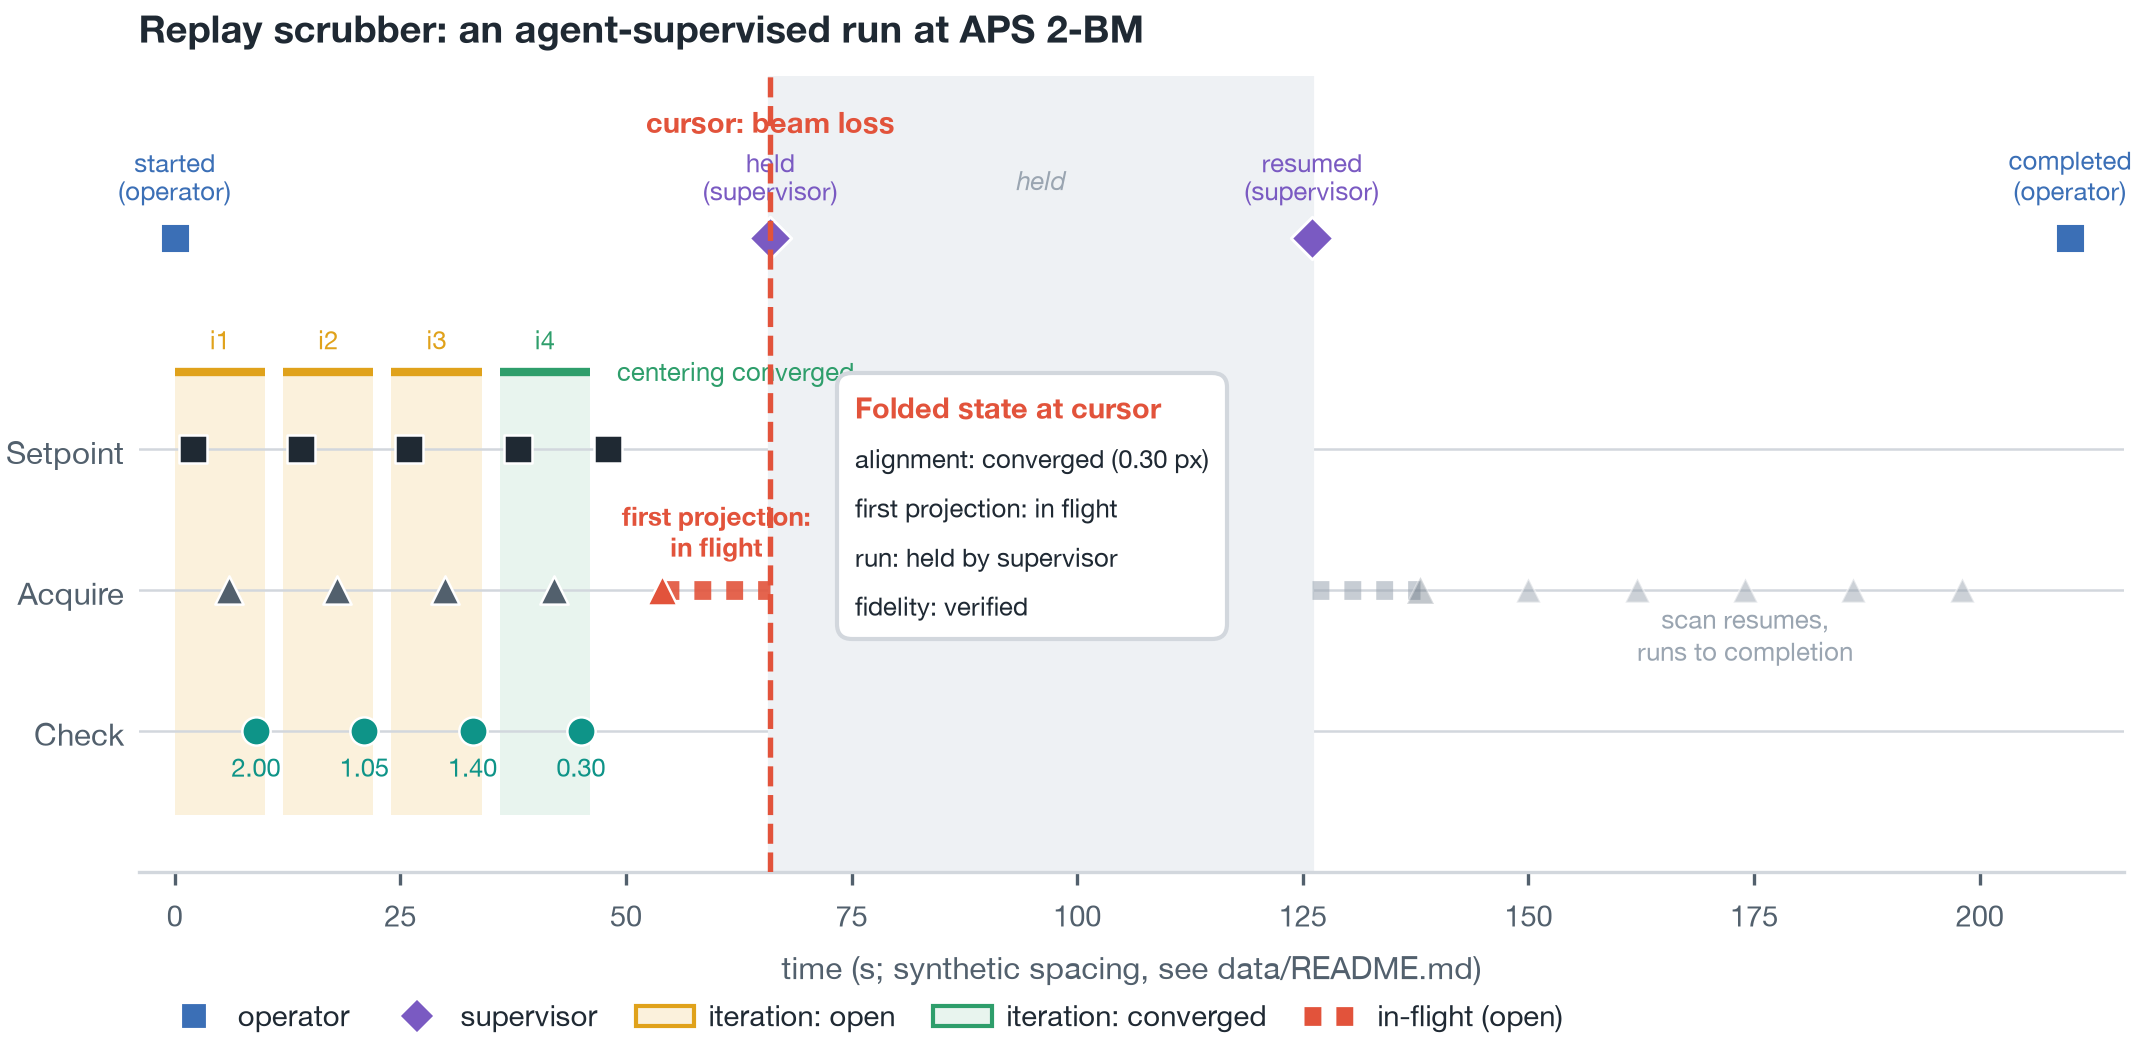
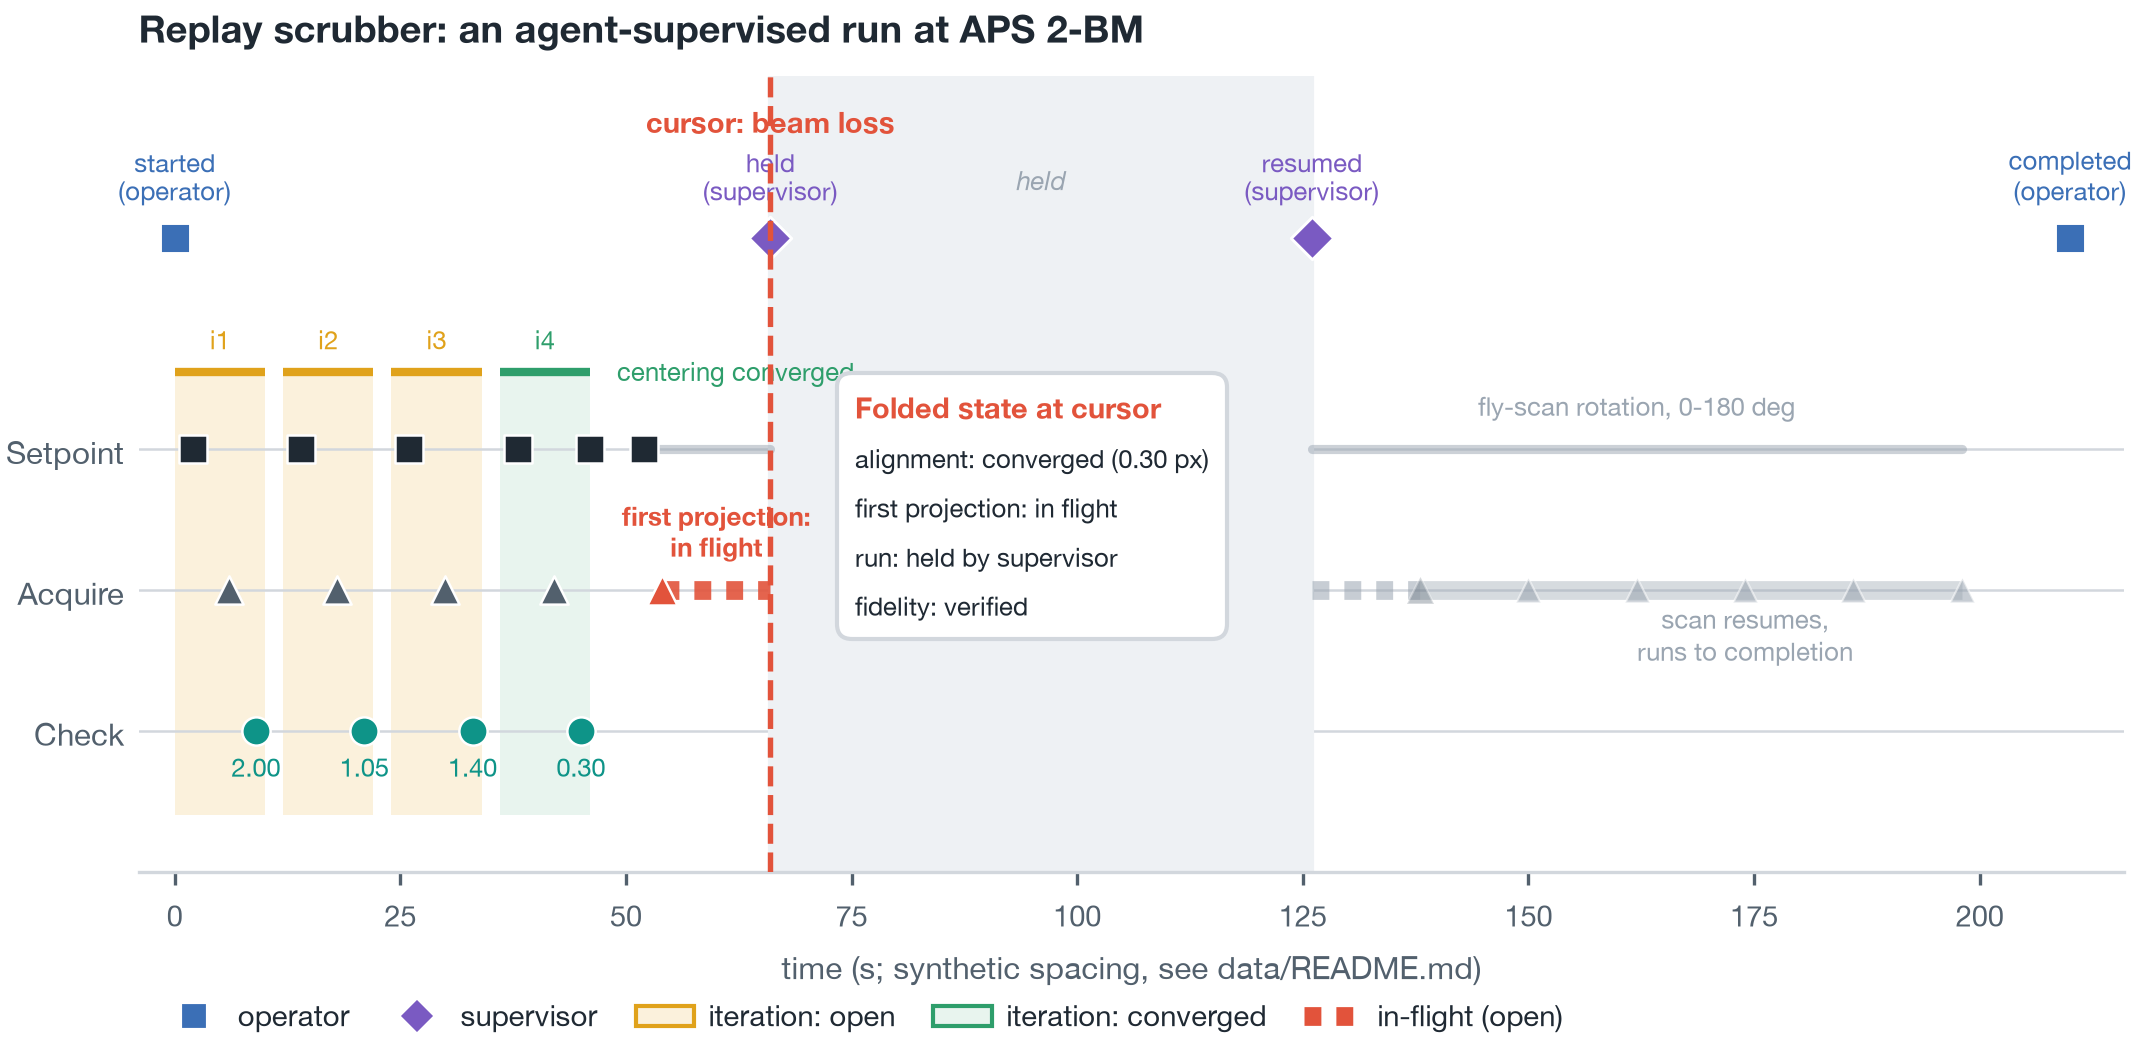
docs(papers): make the science scan a faithful fly-scan (rotation + continuous acquisition)
Looking closely, the scan phase had no rotation and the projections sat
unconnected, so it did not read as a tomography acquisition. 2-BM does
fly-scans (continuous rotation, PSO-triggered frames), so:

- the scenario now records the fly-scan rotation as a real setpoint
  (rotation_angle, role fly_scan, 0->180 deg) before the first projection; a
  new assertion locks it. The test still passes.
- F1 shows the rotary stage moving: a faint continuous span on the setpoint
  lane, paused during the hold, labelled "fly-scan rotation, 0-180 deg".
- the projections are now joined by a continuous closed acquisition line that
  picks up where the interrupted first frame closes. The dashed style stays
  reserved for the open (no-outcome) first frame; once frames close the line
  continues solid.

No per-projection checks: those were the alignment's center-of-rotation
convergence tests, not part of a science scan. Data README and the F1 caption
follow. Builds clean; body still within 6 pages excluding references.

Changed region(s): [[0.6177, 0.3657, 0.9265, 0.4571], [0.6486, 0.5486, 0.9265, 0.579], [0.2471, 0.3962, 0.3706, 0.4571]]

diff --git a/apps/api/tests/integration/scenarios/test_2bm_lights_out_supervised_alignment.py b/apps/api/tests/integration/scenarios/test_2bm_lights_out_supervised_alignment.py
@@ -13,7 +13,9 @@ replay-scrubber paper is built around:
   2. CORA conducts the pre-scan rotation-axis centering alignment as a
      phase-of-Run Procedure (parent_run_id = the Run): a four-iteration
      peak-bracket search on SampleTop_X that converges.
-  3. The first projection acquisition begins (an in-flight activity marker).
+  3. The run locks at the centered position, commands the science scan's
+     continuous rotation (fly-scan, 0->180 deg), and the first projection
+     acquisition begins (an in-flight activity marker).
   4. The beam drops. The RunSupervisor agent HOLDS the Run (RunHeld carries the
      Decision link), leaving the acquisition mid-flight.
   5. The beam returns and the start-safety envelope is good again, so the
@@ -279,6 +281,23 @@ def _science_projection(*, angle_deg: float) -> ActivityInput:
     )
 
 
+def _fly_scan_setpoint() -> ActivityInput:
+    """Command the science scan's rotation: a continuous 0->180 deg fly-scan on
+    the rotary stage, set once before the projections are triggered."""
+    return ActivityInput(
+        event_id=uuid4(),
+        step_kind="setpoint",
+        payload={
+            "channel": "rotation_angle",
+            "target_value": 180.0,
+            "units": "deg",
+            "role": "fly_scan",
+            "note": "continuous 0->180 deg sweep",
+        },
+        sampled_at=_NOW,
+    )
+
+
 class _BeamDown:
     async def read(self) -> BeamAvailabilityLookupResult:
         return BeamAvailabilityLookupResult(
@@ -457,6 +476,7 @@ async def test_lights_out_run_is_aligned_supervised_and_audited(db_pool: asyncpg
             procedure_id=_PROCEDURE_ID,
             entries=(
                 _setpoint(target_mm=0.060, role="lock_at_center"),
+                _fly_scan_setpoint(),
                 _acquire_marker(result="in_flight"),
             ),
         ),
@@ -572,3 +592,13 @@ async def test_lights_out_run_is_aligned_supervised_and_audited(db_pool: asyncpg
         )
     assert len(scan_rows) == 5
     assert all(r["result"] == "ok" for r in scan_rows)
+
+    # ----- Assert: the science scan commanded a continuous rotation (fly-scan) ---
+    async with db_pool.acquire() as conn:
+        rot_rows = await conn.fetch(
+            "SELECT payload->>'role' AS role FROM entries_operation_procedure_activities "
+            "WHERE procedure_id = $1 AND payload->>'channel' = 'rotation_angle'",
+            _PROCEDURE_ID,
+        )
+    assert len(rot_rows) == 1
+    assert rot_rows[0]["role"] == "fly_scan"

diff --git a/papers/2026-vaxautosci-scrubber/figures/render_f1.py b/papers/2026-vaxautosci-scrubber/figures/render_f1.py
@@ -130,16 +130,30 @@ def main() -> None:
     ax.scatter([proj["ok"]], [y], marker="^", s=42, color=s.SUBINK, alpha=0.35,
                edgecolors="white", linewidths=0.5, zorder=3)
 
-    # The science scan continues after resume: the remaining projections acquire
-    # (ghosted, since they are after the parked cursor).
+    # The science scan continues after resume: a continuous (closed) acquisition
+    # through the remaining projections, ghosted since it is past the cursor.
     scan = sorted(secs(a["sampled_at"]) for a in acts
                   if a["payload"].get("action_name") == "acquire_projection")
     if scan:
+        ax.plot([proj["ok"], scan[-1]], [y, y], color=s.MUTE, lw=4.5, alpha=0.4,
+                solid_capstyle="butt", zorder=1)
         ax.scatter(scan, [y] * len(scan), marker="^", s=34, color=s.MUTE,
-                   alpha=0.5, edgecolors="white", linewidths=0.5, zorder=3)
+                   alpha=0.55, edgecolors="white", linewidths=0.5, zorder=3)
         ax.annotate("scan resumes,\nruns to completion", (scan[len(scan) // 2], y),
                     textcoords="offset points", xytext=(0, -17), ha="center",
                     fontsize=s.SIZE["small"], color=s.MUTE, linespacing=1.0)
+
+        # The rotary stage rotates continuously (fly-scan), paused during the
+        # hold: a faint span on the setpoint lane shows the motor moving.
+        rot = [secs(a["sampled_at"]) for a in acts if a["payload"].get("role") == "fly_scan"]
+        if rot:
+            ysp = LANE_Y["setpoint"]
+            for x0, x1 in ((rot[0], beam_loss), (beam_back, scan[-1])):
+                ax.plot([x0, x1], [ysp, ysp], color=s.MUTE, lw=2.2, alpha=0.5,
+                        solid_capstyle="round", zorder=1)
+            ax.annotate("fly-scan rotation, 0-180 deg",
+                        ((beam_back + scan[-1]) / 2, ysp), textcoords="offset points",
+                        xytext=(0, 8), ha="center", fontsize=s.SIZE["small"], color=s.MUTE)
 
     # Fold-to-version cursor at the beam-loss instant.
     ax.axvline(cursor, color=s.ALARM, ls="--", lw=1.3, zorder=5)

diff --git a/papers/2026-vaxautosci-scrubber/data/build_lights_out_data.py b/papers/2026-vaxautosci-scrubber/data/build_lights_out_data.py
@@ -115,7 +115,15 @@ def _build() -> dict:
     activities.append({
         "seq": seq, "iteration": None, "step_kind": "setpoint",
         "payload": {"channel": "SampleTop_X", "target_value": 0.060, "units": "mm", "role": "lock_at_center"},
-        "sampled_at": _at((4 - 1) * _ITER_STRIDE + 12.0), "result": None,
+        "sampled_at": _at(46.0), "result": None,
+    })
+    # Command the science scan's continuous rotation (fly-scan, 0->180 deg).
+    seq += 1
+    activities.append({
+        "seq": seq, "iteration": None, "step_kind": "setpoint",
+        "payload": {"channel": "rotation_angle", "target_value": 180.0, "units": "deg",
+                    "role": "fly_scan", "note": "continuous 0->180 deg sweep"},
+        "sampled_at": _at(52.0), "result": None,
     })
     seq += 1
     activities.append({

diff --git a/papers/2026-vaxautosci-scrubber/sections/scrubber.tex b/papers/2026-vaxautosci-scrubber/sections/scrubber.tex
@@ -17,8 +17,8 @@
   fold-to-version cursor is parked at the beam-loss instant: folding the event
   stream to there reconstructs the state shown in the read-out, including the
   first projection as an open interval (its in-flight marker is recorded but its
-  outcome is not yet). Past the cursor, after the run resumes, the science scan
-  continues to completion. Time spacing is synthetic.}
+  outcome is not yet). Past the cursor, after the run resumes, the fly-scan
+  rotation and its projections run to completion. Time spacing is synthetic.}
   \label{fig:scrubber}
 \end{figure*}
 

diff --git a/papers/2026-vaxautosci-scrubber/data/README.md b/papers/2026-vaxautosci-scrubber/data/README.md
@@ -25,8 +25,8 @@ Regenerate with `python3 data/build_lights_out_data.py`.
   and the center-of-rotation residual falling 2.00 -> 1.05 -> 1.40 -> 0.30 px,
   bracketed in [0.040, 0.080] mm and bisected to 0.060 mm.
 - `activities`: setpoint / acquire / check per pass, the lock setpoint, the
-  first projection as an in-flight marker plus its post-resume outcome, and the
-  remaining science-scan projections acquired after resume.
+  fly-scan rotation setpoint, the first projection as an in-flight marker plus
+  its post-resume outcome, and the remaining science-scan projections.
 - `provenance.cursor_at` / `beam_loss_at` / `beam_back_at`: the audit instant and
   the hold window the figures use.
 
